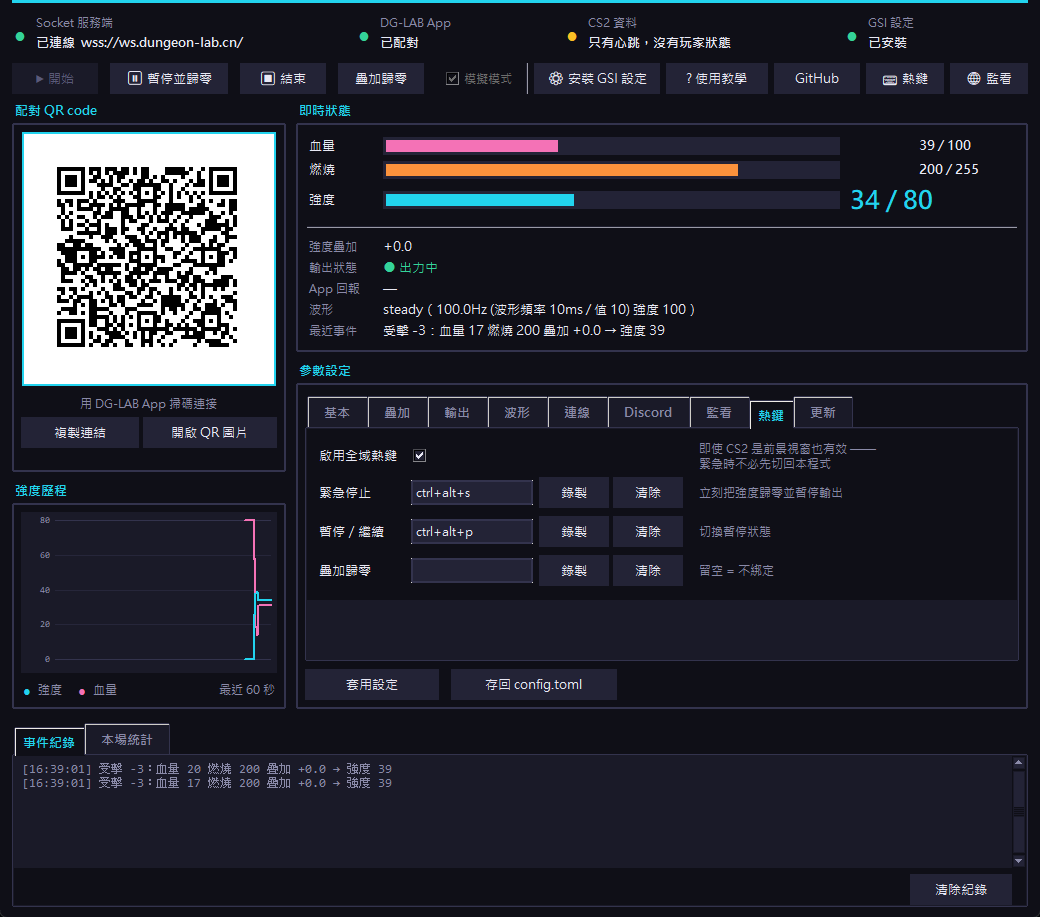
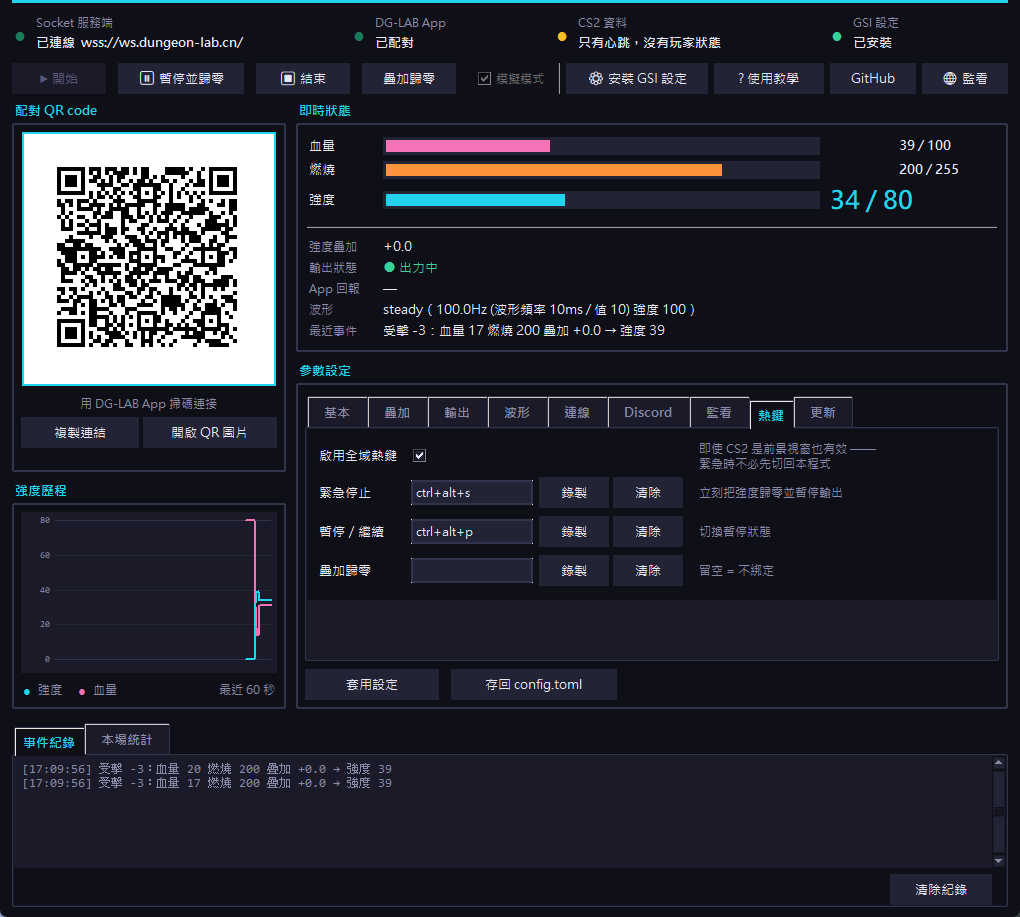
修正自訂取樣點的白底白字、移除熱鍵按鈕、GSI 設定不一致時直接覆蓋
1. 自訂取樣點看不到字

   _sync_wave_hint() 還留著淺色主題的硬編碼（background 用 "white" 或
   "#f0f0f0"）。深色主題的文字是近白色，於是 preset != custom 時（框框會被
   設成唯讀）就變成淺灰底＋看不見的字。改成跟著主題走：可編輯時
   SURFACE/TEXT、唯讀時 SURFACE2/TEXT_SOFT。

   順帶一提，tk.Text 不支援 disabledbackground/disabledforeground
   （那是 Entry/Listbox 的選項），用了會直接 TclError。

2. 移除按鈕列的「⌨ 熱鍵」

   熱鍵分頁本來就在，不需要多一顆按鈕。讓出來的寬度還給其他按鈕，
   視窗從 1040 回到 1020。

3. GSI 設定不一致時直接覆蓋，不問使用者

   已經裝過、只是連線設定不符（或是有別的 cfg 搶同一個埠、缺少資料區塊）
   就靜默重新寫入目前的設定，不再跳「要不要重新安裝」的對話框。
   完全沒裝才需要問，因為那要選資料夾。

   新增 _gsi_needs_refresh() 與 _refresh_installed_gsi()，並補上測試。

diff --git a/gui.py b/gui.py
@@ -127,6 +127,8 @@ TEXT_DIM = "#8a8aa8"
 ACCENT = "#22d3ee"      # 青：電
 ACCENT_DARK = "#0b3b47"
 PINK = "#f472b6"        # 血量
+#: 唯讀／停用狀態的文字（比 TEXT 暗一點，但仍看得清楚）
+TEXT_SOFT = "#b4b4d0"
 ORANGE = "#fb923c"      # 燃燒
 
 #: 狀態燈號顏色
@@ -1799,17 +1801,17 @@ class DglabApp:
         bar = ttk.Frame(self.root, padding=(12, 10, 12, 0))
         bar.grid(row=1, column=0, sticky="ew")
 
-        self.start_button = ttk.Button(bar, text="\u25b6 開始", command=self._on_start, width=8)
+        self.start_button = ttk.Button(bar, text="\u25b6 開始", command=self._on_start, width=9)
         self.start_button.grid(row=0, column=0, padx=(0, 6))
         self.pause_button = ttk.Button(
-            bar, text="\u23f8 暫停並歸零", command=self._on_pause, width=12, state="disabled"
+            bar, text="\u23f8 暫停並歸零", command=self._on_pause, width=13, state="disabled"
         )
         self.pause_button.grid(row=0, column=1, padx=6)
         self.stop_button = ttk.Button(
-            bar, text="\u23f9 結束", command=self._on_stop, width=8, state="disabled"
+            bar, text="\u23f9 結束", command=self._on_stop, width=9, state="disabled"
         )
         self.stop_button.grid(row=0, column=2, padx=6)
-        ttk.Button(bar, text="疊加歸零", command=self._on_reset_stack, width=8).grid(
+        ttk.Button(bar, text="疊加歸零", command=self._on_reset_stack, width=9).grid(
             row=0, column=3, padx=6
         )
         self.dry_run_var = tk.BooleanVar(value=self.dry_run)
@@ -1831,10 +1833,10 @@ class DglabApp:
 
         ttk.Separator(bar, orient="vertical").grid(row=0, column=5, sticky="ns", padx=6)
         ttk.Button(
-            bar, text="\u2699 安裝 GSI 設定", command=self._on_install_cfg, width=13
+            bar, text="\u2699 安裝 GSI 設定", command=self._on_install_cfg, width=15
         ).grid(row=0, column=6, padx=(0, 6))
         ttk.Button(
-            bar, text="? 使用教學", command=self._show_tutorial, width=10
+            bar, text="? 使用教學", command=self._show_tutorial, width=11
         ).grid(row=0, column=7, padx=(0, 6))
         ttk.Button(
             bar,
@@ -1843,15 +1845,12 @@ class DglabApp:
             width=8,
         ).grid(row=0, column=8)
         ttk.Button(
-            bar, text="\u2328 熱鍵", command=self._show_hotkey_tab, width=7
+            bar, text="\U0001f310 監看", command=self._open_dashboard, width=8
         ).grid(row=0, column=9, padx=(6, 0))
-        ttk.Button(
-            bar, text="\U0001f310 監看", command=self._open_dashboard, width=7
-        ).grid(row=0, column=10, padx=(6, 0))
 
         # 有新版本時才顯示（沒有就 grid_remove，完全不佔高度）
         self.update_banner = ttk.Frame(bar)
-        self.update_banner.grid(row=1, column=0, columnspan=11, sticky="ew", pady=(8, 0))
+        self.update_banner.grid(row=1, column=0, columnspan=10, sticky="ew", pady=(8, 0))
         self.update_banner.grid_remove()
 
     def _build_settings(self, parent: ttk.Frame) -> None:
@@ -1955,6 +1954,10 @@ class DglabApp:
                 self.vars["__widget__" + field.key] = entry
             elif field.kind == "text" and field.key == "wave_custom":
                 var = tk.StringVar()
+                # disabledbackground / disabledforeground 一定要一起設：
+                # _sync_wave_hint() 會在 preset != custom 時把這個框設成
+                # state="disabled"，而 Tk 的停用狀態會用**系統的**淺色
+                # 蓋掉上面設的深色，變成「淺灰底＋看不見的字」。
                 box = tk.Text(
                     tab,
                     height=4,
@@ -2572,6 +2575,43 @@ class DglabApp:
         # 按鈕狀態交給 _tick 依引擎實際狀態更新
         self._append_log("引擎啟動中…（要停止請按「⏹ 結束」）", "info")
 
+    @staticmethod
+    def _gsi_needs_refresh(check: cs2cfg.GsiCheck) -> bool:
+        """判斷「已經裝了、但內容要更新」——這種情況不問使用者，直接覆蓋。
+
+        只有真的存在一個以上的設定檔時才算；完全沒裝的話還是要問，
+        因為那需要選資料夾。
+        """
+        return bool(
+            check.installed or check.mismatched or check.conflicts or check.missing_data
+        )
+
+    def _refresh_installed_gsi(
+        self, config: AppConfig, check: cs2cfg.GsiCheck
+    ) -> bool:
+        """把已經存在的 GSI 設定檔覆蓋成目前設定（不跳任何對話框）。
+
+        會覆蓋「我們的檔案」所在的目錄；如果只有別人的檔案指向同一個埠，
+        也會在那些目錄補上我們的檔案，讓設定一致。
+        """
+        targets: list[Path] = []
+        for entry in (check.installed, *check.mismatched, *check.conflicts):
+            if entry is None:
+                continue
+            parent = Path(entry.path).parent
+            if parent not in targets:
+                targets.append(parent)
+        if not targets:
+            return False
+
+        ok = True
+        for directory in targets:
+            if self._install_cfg_for(config, directory, confirm=False):
+                self._append_log(f"已自動更新 GSI 設定：{directory}", "success")
+            else:
+                ok = False
+        return ok
+
     def _passes_gsi_check(self, config: AppConfig) -> bool:
         """啟動前的把關：GSI 沒裝好就不顯示 QR code。
 
@@ -2584,6 +2624,19 @@ class DglabApp:
             return True
 
         self._append_log(f"GSI 檢查未通過：{check.summary}", "warning")
+
+        # 已經裝過、只是設定不一致（或是有別的 cfg 搶同一個埠、缺少資料區塊）
+        # → 直接覆蓋成目前設定，不要問。使用者要求「裝過就自動更新成新版」。
+        # 只有「完全沒裝」才需要問，因為那要選資料夾。
+        if self._gsi_needs_refresh(check):
+            if self._refresh_installed_gsi(config, check):
+                check = self._refresh_gsi_check(config)
+                self._update_gsi_status(check)
+                if check.ok:
+                    return True
+            else:
+                self._append_log("自動更新 GSI 設定失敗，改用詢問方式", "warning")
+
         decision = self._ask_about_missing_gsi(check)
         if decision == "cancel":
             self._append_log("已取消啟動（GSI 設定還沒安裝）", "info")
@@ -3502,9 +3555,12 @@ class DglabApp:
             return
         var = self.vars.get("wave_preset")
         enabled = str(var.get()) == "custom" if isinstance(var, tk.StringVar) else False
+        # 顏色要跟著深色主題走。這裡以前是寫死的 "white" / "#f0f0f0"
+        # （淺色主題留下來的），配上深色主題的近白文字就變成白底白字。
         widget.configure(
             state="normal" if enabled else "disabled",
-            background="white" if enabled else "#f0f0f0",
+            background=SURFACE if enabled else SURFACE2,
+            foreground=TEXT if enabled else TEXT_SOFT,
         )
 
 

diff --git a/tests/test_gui_form.py b/tests/test_gui_form.py
@@ -11,6 +11,7 @@ from config import load_config
 from coyote.socket_protocol import Channel
 from coyote.waveform import PRESET_NAMES
 from gui import (
+    DglabApp,
     FIELDS,
     FIELD_BY_KEY,
     TAB_ORDER,
@@ -61,6 +62,43 @@ class FormRoundTripTests(unittest.TestCase):
         )
         # TAB_ORDER 決定分頁順序，每個分頁都必須真的有欄位
         self.assertEqual(set(TAB_ORDER), tabs)
+
+    def test_gsi_needs_refresh_only_when_something_is_installed(self):
+        """「已安裝但設定不一致」要自動覆蓋；「完全沒裝」還是要問。"""
+        from pathlib import Path as _Path
+
+        import cs2cfg
+
+        nothing = cs2cfg.GsiCheck(ok=False, summary="未安裝", directories=[_Path("C:/nope")])
+        self.assertFalse(DglabApp._gsi_needs_refresh(nothing))
+
+        mismatched = cs2cfg.GsiCheck(
+            ok=False,
+            summary="設定不一致",
+            directories=[_Path("C:/game/csgo/cfg")],
+            mismatched=[
+                cs2cfg.InstalledCfg(path=_Path("C:/game/csgo/cfg") / cs2cfg.CFG_FILENAME)
+            ],
+        )
+        self.assertTrue(DglabApp._gsi_needs_refresh(mismatched))
+
+        conflicting = cs2cfg.GsiCheck(
+            ok=False,
+            summary="有衝突",
+            directories=[_Path("C:/game/csgo/cfg")],
+            conflicts=[
+                cs2cfg.InstalledCfg(path=_Path("C:/game/csgo/cfg/other.cfg"))
+            ],
+        )
+        self.assertTrue(DglabApp._gsi_needs_refresh(conflicting))
+
+        missing = cs2cfg.GsiCheck(
+            ok=False,
+            summary="缺資料區塊",
+            directories=[_Path("C:/game/csgo/cfg")],
+            missing_data=("player_state",),
+        )
+        self.assertTrue(DglabApp._gsi_needs_refresh(missing))
 
     def test_discord_round_trip(self):
         config = config_from_form(
